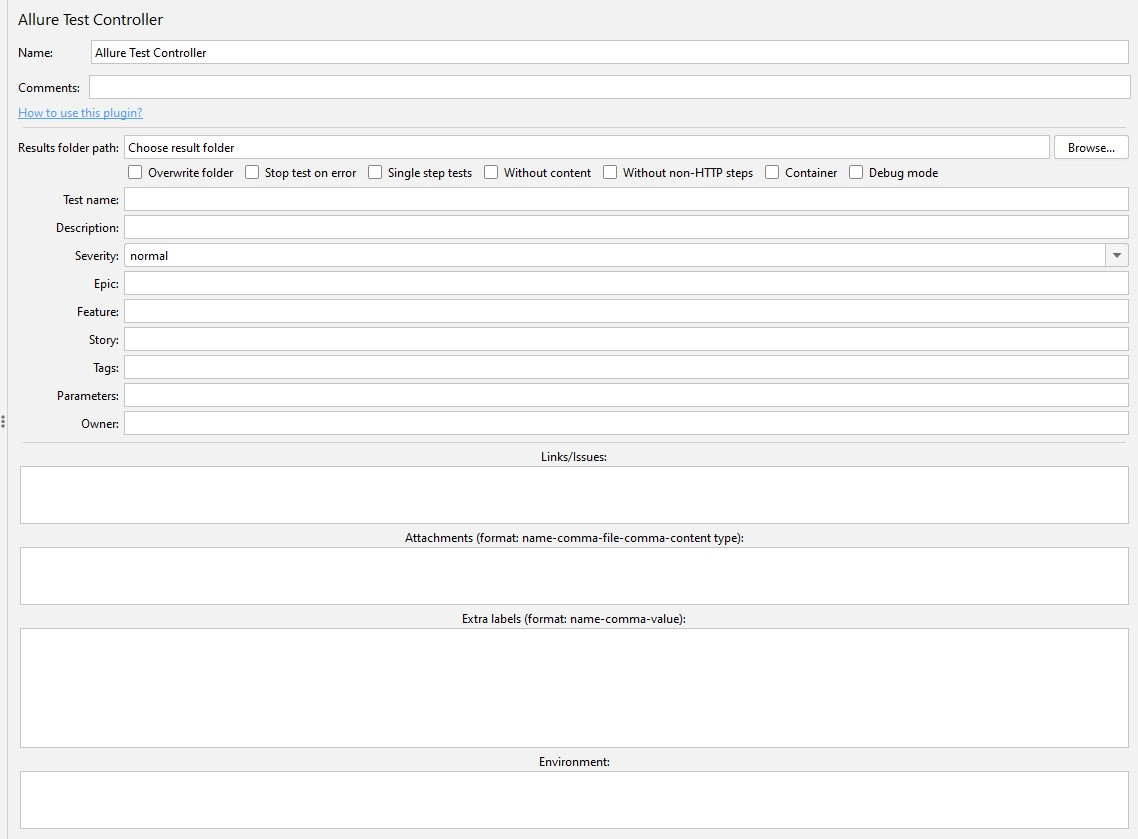
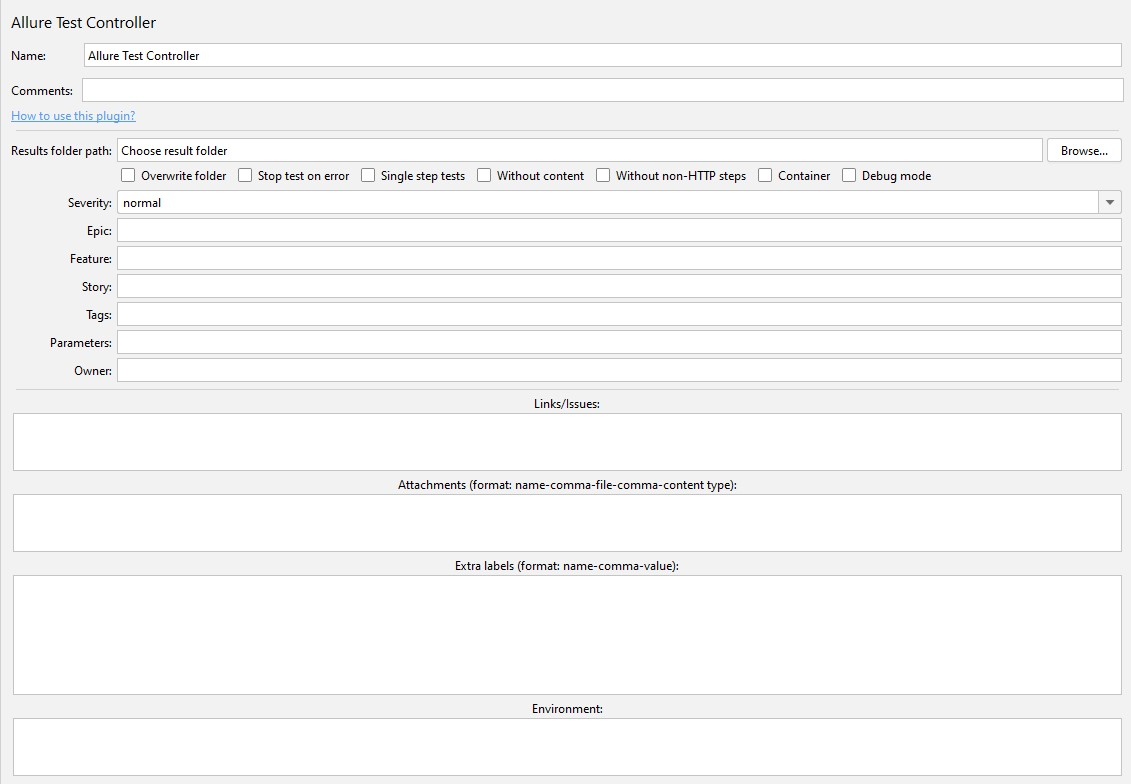
update to v1.2

diff --git a/src/main/java/mobikylym/jmeter/control/AllureTestController.java b/src/main/java/mobikylym/jmeter/control/AllureTestController.java
@@ -41,8 +41,6 @@ public class AllureTestController extends GenericController {
     public static final String ATC_WITHOUT_NON_HTTP = "AllureTestController.withoutNonHTTP";
     public static final String ATC_IS_CONTAINER = "AllureTestController.isContainer";
     public static final String ATC_DEBUG_MODE = "AllureTestController.debugMode";
-    public static final String ATC_TEST_NAME = "AllureTestController.testName";
-    public static final String ATC_DESCRIPTION = "AllureTestController.description";
     public static final String ATC_SEVERITY = "AllureTestController.severity";
     public static final String ATC_EPIC = "AllureTestController.epic";
     public static final String ATC_STORY = "AllureTestController.story";
@@ -103,28 +101,28 @@ public class AllureTestController extends GenericController {
                 return null;
             }
 
+            if (!getEnvironment().trim().isEmpty()) {
+                try {
+                    writeToFile(getPathToResults(), "environment.properties", getEnvironment().trim(), false);
+                } catch (IOException ex) {
+                    log.error("Failed to write environment file.", ex);
+                }
+            }
+
+            File file = new File(getLastTryFolder(), (ctx.getThread().getThreadName().trim() + 
+            " " + this.getName().trim()).replaceAll("[\\*\\?\\\\\\/\\<\\>\\:\\|\"]", "").trim());
+            if (file.exists() && JMeterUtils.getPropDefault("allure.retry.fallen", "false").equals("true")) {
+                try {
+                    List<String> lines = FileUtils.readLines(file, StandardCharsets.UTF_8);
+                    if (lines.get(0).equals("true")) {
+                        return null;
+                    }
+                } catch (IOException e) {
+                    log.error("Error reading the file: " + e.getMessage());
+                }
+            }
+
             if (!isContainer()) {
-                if (!getEnvironment().trim().isEmpty()) {
-                    try {
-                        writeToFile(getPathToResults(), "environment.properties", getEnvironment().trim(), false);
-                    } catch (IOException ex) {
-                        log.error("Failed to write environment file.", ex);
-                    }
-                }
-    
-                File file = new File(getLastTryFolder(), (ctx.getThread().getThreadName().replaceAll("[\\*\\?\\\\\\/\\<\\>\\:\\|\"]", "").trim() + 
-                " " + (isSingleStepTest() ? this.getName().replaceAll("[\\*\\?\\\\\\/\\<\\>\\:\\|\"]", "").trim() : getPropertyAsString(ATC_TEST_NAME).replaceAll("[\\*\\?\\\\\\/\\<\\>\\:\\|\"]", "").trim())).trim());
-                if (file.exists() && JMeterUtils.getPropDefault("allure.retry.fallen", "false").equals("true")) {
-                    try {
-                        List<String> lines = FileUtils.readLines(file, StandardCharsets.UTF_8);
-                        if (lines.get(0).equals("true")) {
-                            return null;
-                        }
-                    } catch (IOException e) {
-                        log.error("Error reading the file: " + e.getMessage());
-                    }
-                }
-    
                 if (!isSingleStepTest()) {
                     if (file.exists()) {
                         try {
@@ -141,7 +139,7 @@ public class AllureTestController extends GenericController {
                         historyId = UUID.randomUUID().toString();
                     }
                     children.add(testFileId);
-                    startFileMaking(getTestId(getPropertyAsString(ATC_TEST_NAME)), testFileId, historyId, System.currentTimeMillis(), getTestNameField(getPropertyAsString(ATC_TEST_NAME)), getDescriptionField(), ctx.getThread().getThreadName());
+                    startFileMaking(getTestId(this.getName()), testFileId, historyId, System.currentTimeMillis(), getTestNameField(this.getName()), this.getComment(), ctx.getThread().getThreadName());
                 }
             } else {
                 try {
@@ -161,8 +159,8 @@ public class AllureTestController extends GenericController {
         if (sampler != null && !isFirst()) {
             int samplerHash = result.hashCode();
             if (isSingleStepTest() && getStepState(result).matches("step")) {
-                File file = new File(getLastTryFolder(), (ctx.getThread().getThreadName().replaceAll("[\\*\\?\\\\\\/\\<\\>\\:\\|\"]", "").trim() + 
-                " " + sampler.getName().replaceAll("[\\*\\?\\\\\\/\\<\\>\\:\\|\"]", "").trim()).trim());
+                File file = new File(getLastTryFolder(), (ctx.getThread().getThreadName().trim() + 
+                " " + sampler.getName().trim()).replaceAll("[\\*\\?\\\\\\/\\<\\>\\:\\|\"]", "").trim());
                 if (file.exists()) {
                     try {
                         List<String> lines = FileUtils.readLines(file, StandardCharsets.UTF_8);
@@ -208,8 +206,8 @@ public class AllureTestController extends GenericController {
                                     stopFileMaking(testFileId, System.currentTimeMillis(), testStatus, testFailureMessage);
                                 } else {
                                     try {
-                                        writeToFile(getLastTryFolder(), (ctx.getThread().getThreadName().replaceAll("[\\*\\?\\\\\\/\\<\\>\\:\\|\"]", "").trim() + 
-                                        " " + this.getName().replaceAll("[\\*\\?\\\\\\/\\<\\>\\:\\|\"]", "").trim()).trim(), "false", false);
+                                        writeToFile(getLastTryFolder(), (ctx.getThread().getThreadName().trim() + 
+                                        " " + this.getName().trim()).replaceAll("[\\*\\?\\\\\\/\\<\\>\\:\\|\"]", "").trim(), "false", false);
                                     } catch (IOException ex) {
                                         log.error("Failed to write last result file.", ex);
                                     }
@@ -242,8 +240,8 @@ public class AllureTestController extends GenericController {
             }
         } else {
             try {
-                writeToFile(getLastTryFolder(), (JMeterContextService.getContext().getThread().getThreadName().replaceAll("[\\*\\?\\\\\\/\\<\\>\\:\\|\"]", "").trim() + 
-                " " + this.getName().replaceAll("[\\*\\?\\\\\\/\\<\\>\\:\\|\"]", "").trim()).trim(), testStatus.equals(PASSED) ? "true" : "false", false);
+                writeToFile(getLastTryFolder(), (JMeterContextService.getContext().getThread().getThreadName().trim() + 
+                " " + this.getName().trim()).replaceAll("[\\*\\?\\\\\\/\\<\\>\\:\\|\"]", "").trim(), testStatus.equals(PASSED) ? "true" : "false", false);
             } catch (IOException ex) {
                 log.error("Failed to write last result file.", ex);
             }
@@ -329,9 +327,9 @@ public class AllureTestController extends GenericController {
             }
 
             writeToFile(getPathToResults(), uuid + "-result.json", jsonString, false);
-            writeToFile(getLastTryFolder(), (JMeterContextService.getContext().getThread().getThreadName().replaceAll("[\\*\\?\\\\\\/\\<\\>\\:\\|\"]", "").trim() + " " +
-            ((isSingleStepTest()) ? JMeterContextService.getContext().getPreviousResult().getSampleLabel().replaceAll("[\\*\\?\\\\\\/\\<\\>\\:\\|\"]", "").trim() : 
-            getPropertyAsString(ATC_TEST_NAME).replaceAll("[\\*\\?\\\\\\/\\<\\>\\:\\|\"]", "").trim())).trim(), ((status.equals(PASSED)) ? "true" : "false") + "\n" + historyId, false);
+            writeToFile(getLastTryFolder(), (JMeterContextService.getContext().getThread().getThreadName().trim() + " " +
+            (isSingleStepTest() ? JMeterContextService.getContext().getPreviousResult().getSampleLabel().trim() : 
+            this.getName().trim())).replaceAll("[\\*\\?\\\\\\/\\<\\>\\:\\|\"]", "").trim(), ((status.equals(PASSED)) ? "true" : "false") + "\n" + historyId, false);
             
             writeToFile(getLastTryFolder(), JMeterContextService.getContext().getThread().getThreadName()
             .replaceAll("[\\*\\?\\\\\\/\\<\\>\\:\\|\"]", "").trim() + " -container", uuid + "\n", true);
@@ -353,6 +351,13 @@ public class AllureTestController extends GenericController {
                 }
             } catch (IOException ex) {
                 log.error("Error reading the container file: " + ex.getMessage());
+            }
+
+            try {
+                writeToFile(getLastTryFolder(), (JMeterContextService.getContext().getThread().getThreadName().trim() + " " +
+                this.getName().trim()).replaceAll("[\\*\\?\\\\\\/\\<\\>\\:\\|\"]", "").trim(), ((testStatus.equals(PASSED)) ? "true" : "false"), false);
+            } catch (IOException ex) {
+                log.error("Failed to write result file.", ex);
             }
         }
 
@@ -731,7 +736,7 @@ public class AllureTestController extends GenericController {
     }
 
     public File getLastTryFolder() {
-        File folder = new File(getPropertyAsString(ATC_PATH_TO_RESULTS), "last-try-results");
+        File folder = new File(getPropertyAsString(ATC_PATH_TO_RESULTS), ".last-try-results");
 
         return folder;
     }
@@ -829,23 +834,8 @@ public class AllureTestController extends GenericController {
     //
     // Test name
     //
-    public void setTestNameField(String te) {
-        setProperty(ATC_TEST_NAME, te);
-    }
-
     public String getTestNameField(String testNameString) {
         return testNameString.trim().replaceFirst("^\\[(.*?)\\]\\s*", "");
-    }
-
-    //
-    // Description
-    //
-    public void setDescriptionField(String de) {
-        setProperty(ATC_DESCRIPTION, de);
-    }
-
-    public String getDescriptionField() {
-        return getPropertyAsString(ATC_DESCRIPTION);
     }
 
     //

diff --git a/src/main/java/mobikylym/jmeter/control/gui/AllureTestControllerGui.java b/src/main/java/mobikylym/jmeter/control/gui/AllureTestControllerGui.java
@@ -34,8 +34,6 @@ public class AllureTestControllerGui extends AbstractControllerGui {
     private JCheckBox withoutNonHTTP = new JCheckBox("Without non-HTTP steps  ", false); //Without non-HTTP steps
     private JCheckBox isContainer = new JCheckBox("Container  ", false); //Container
     private JCheckBox debugMode = new JCheckBox("Debug mode  ", false); //Debug mode
-    private JTextField testName = new JTextField(); //Test
-    private JTextField description = new JTextField(); //Description
     private JComboBox<String> severity = new JComboBox<>(new String[] {"blocker", "critical", "normal", "minor", "trivial"}); //Severity
     private JTextField epic = new JTextField(); //Epic
     private JTextField story = new JTextField(); //Story
@@ -80,8 +78,6 @@ public class AllureTestControllerGui extends AbstractControllerGui {
         withoutNonHTTP.setSelected(false);
         isContainer.setSelected(false);
         debugMode.setSelected(false);
-        testName.setText("");
-        description.setText("");
         severity.setSelectedItem("normal");
         severity.setEditable(true);
         epic.setText("");
@@ -109,8 +105,6 @@ public class AllureTestControllerGui extends AbstractControllerGui {
             obj.setProperty(AllureTestController.ATC_WITHOUT_NON_HTTP, withoutNonHTTP.isSelected());
             obj.setProperty(AllureTestController.ATC_IS_CONTAINER, isContainer.isSelected());
             obj.setProperty(AllureTestController.ATC_DEBUG_MODE, debugMode.isSelected());
-            obj.setProperty(AllureTestController.ATC_TEST_NAME, testName.getText());
-            obj.setProperty(AllureTestController.ATC_DESCRIPTION, description.getText());
             obj.setProperty(AllureTestController.ATC_SEVERITY, (String) severity.getEditor().getItem());            
             obj.setProperty(AllureTestController.ATC_EPIC, epic.getText());
             obj.setProperty(AllureTestController.ATC_STORY, story.getText());
@@ -136,8 +130,6 @@ public class AllureTestControllerGui extends AbstractControllerGui {
         withoutNonHTTP.setSelected(element.getPropertyAsBoolean(AllureTestController.ATC_WITHOUT_NON_HTTP));
         isContainer.setSelected(element.getPropertyAsBoolean(AllureTestController.ATC_IS_CONTAINER));
         debugMode.setSelected(element.getPropertyAsBoolean(AllureTestController.ATC_DEBUG_MODE));
-        testName.setText(element.getPropertyAsString(AllureTestController.ATC_TEST_NAME));
-        description.setText(element.getPropertyAsString(AllureTestController.ATC_DESCRIPTION));
         severity.setSelectedItem(element.getPropertyAsString(AllureTestController.ATC_SEVERITY));
         epic.setText(element.getPropertyAsString(AllureTestController.ATC_EPIC));
         story.setText(element.getPropertyAsString(AllureTestController.ATC_STORY));
@@ -244,46 +236,14 @@ public class AllureTestControllerGui extends AbstractControllerGui {
             }
         });
 
-        JLabel nameLabel = new JLabel("Test name: ", JLabel.RIGHT);
+        JLabel severityLabel = new JLabel("Severity: ", JLabel.RIGHT);
         labelConstraints.gridx = 0;
         labelConstraints.gridy = checkBoxConstraints.gridy + 1;
-        mainPanel.add(nameLabel, labelConstraints);
-
-        editConstraints.gridy = labelConstraints.gridy;
-        editConstraints.gridwidth = 8;
-        mainPanel.add(testName, editConstraints);
-
-        JLabel descLabel = new JLabel("Description: ", JLabel.RIGHT);
-        labelConstraints.gridy ++;
-        mainPanel.add(descLabel, labelConstraints);
-
-        editConstraints.gridy ++;
-        mainPanel.add(description, editConstraints);
-
-        isSingleStep.addItemListener(evt -> {
-            if (evt.getStateChange() == ItemEvent.SELECTED) {
-
-                testName.setEnabled(false);
-                testName.setText("Same as sampler name");
-                description.setEnabled(false);
-                description.setText("Same as sampler comment");
-
-            } else {
-
-                testName.setEnabled(true);
-                testName.setText("");
-                description.setEnabled(true);
-                description.setText("");
-
-            }
-        });
-
-        JLabel severityLabel = new JLabel("Severity: ", JLabel.RIGHT);
-        labelConstraints.gridy ++;
         mainPanel.add(severityLabel, labelConstraints);
 
         severity.setEditable(true);
-        editConstraints.gridy ++;
+        editConstraints.gridy = labelConstraints.gridy;
+        editConstraints.gridwidth = 8;
         mainPanel.add(severity, editConstraints);
 
         JLabel epicLabel = new JLabel("Epic: ", JLabel.RIGHT);

diff --git a/README-en.md b/README-en.md
@@ -26,13 +26,15 @@ JMeter has a built-in flexible mechanism for generating test reports. However, i
 
 
 ## Description of controller attributes and their application:
+- **Name + Comments**: The fields are used to specify the name and description of the test case, respectively. ATTENTION! The "Name" field can also contain, if necessary, the id of the associated case when using Allure TMS. To indicate the connection, you must specify the case id from TMS in square brackets before the name of the test, followed by the name of the case (for example, "\[1425\] Authorization with a personal account").
+
 - **Results folder path**: Specifies the path to the folder with test results. The only field that must be filled in. You can use the "Browse..." button to specify the path. ATTENTION! Do not specify the final folder here, only the path to it. In the specified directory, a folder "allure-results" will be created, into which the test results will fall.
   
 - **Overwrite folder**: If set, the folder specified by the path from "Results folder path" will be cleared before the controller is executed. It is recommended to use only for the first controller inside Thread Group if you use only one thread group inside the scenario. If you use several thread groups, then you should use the checkbox only before the start of testing. For example, inside SetUp Thread Group.
   
 - **Stop test on error**: If set, it stops the thread if any of the samplers inside the controller is executed with an error.
   
-- **Single step tests**: If set, it changes the logic of forming results: each sampler inside the controller will be considered a separate test with its name and description, which will be taken from the name and description of the sampler. The other fields will be common for all tests in the controller (severity, epic, etc.).
+- **Single step tests**: If set, it changes the logic of forming results: each sampler inside the controller will be considered a separate test with its name and description, which will be taken from the name and description of the sampler. The other fields will be common for all tests in the controller (severity, epic, etc.). Specifying the test id is supported, similar to the "Name" field of the controller.
   
 - **Without content**: If set, attached files with request and response details will no longer be formed for test steps in the report. ATTENTION! If the "Stop test on error" checkbox is set, attached files will still be formed for the step with an error so that you can see the cause of the error.
   
@@ -41,8 +43,6 @@ JMeter has a built-in flexible mechanism for generating test reports. However, i
 - **Container**: Switches the controller to container mode to specify preconditions and/or postconditions for an entire scenario or group of tests. [More details](#container-mode)
 
 - **Debug mode**: If set, nothing will change in the report, but the .json file with test results will acquire a readable look. The function is needed only for manual checking of results.
-  
-- **Test name + Description**: The name of the test case and its description. If the "Single step tests" checkbox is set, these fields become unavailable for filling, because then each sampler inside the controller will have its name and description. ATTENTION! The "Test name" field can also contain, if necessary, the id of the associated case when using Allure TMS. To indicate the connection, it is necessary to specify the case id from TMS in square brackets before the name of the test, followed by the name of the case (for example, “\[1425\] Authorization with a personal account”). This functionality also works when using the “Single step tests” checkbox.
   
 - **Severity**: Indicates the severity of the test case. By default in Allure, the options are: "trivial", "minor", "normal", "critical" and "blocker". Free input is available. If you leave the field empty, "normal" will be indicated.
   
@@ -127,7 +127,7 @@ For each step, the plugin analyzes all nested assertions and outputs them in the
 
 # Selective retest mechanism
 
-In addition to saving the report for Allure, the plugin also saves the results of each individual test in the “last-try-results” folder, which is automatically created in the same location as the “allure-results” folder. You can configure the scenario in such a way that it skips all tests that were successful last time when launched. 
+In addition to saving the report for Allure, the plugin also saves the results of each individual test in the “.last-try-results” folder, which is automatically created in the same location as the “allure-results” folder. You can configure the scenario in such a way that it skips all tests that were successful last time when launched. 
 The configuration is done through the JMeter property “allure.retry.fallen”. If “allure.retry.fallen” = “true”, the selective launch mechanism will work and only tests that ended with errors last time will be run again. 
 This property can be set in several ways:
 - **Write in the .properties file**: It is recommended to do this only if you always want to enable this option (“true”) by default.
